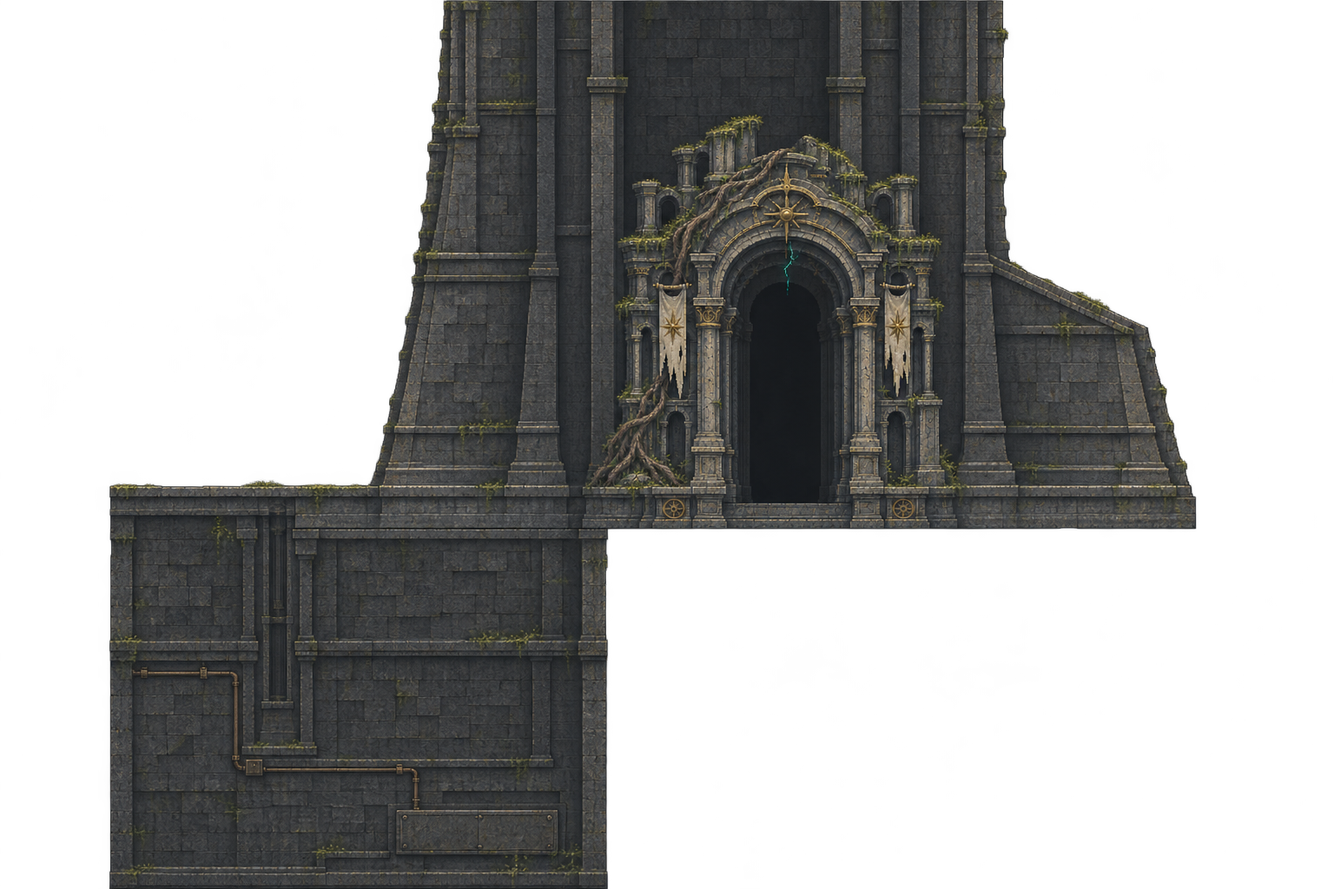
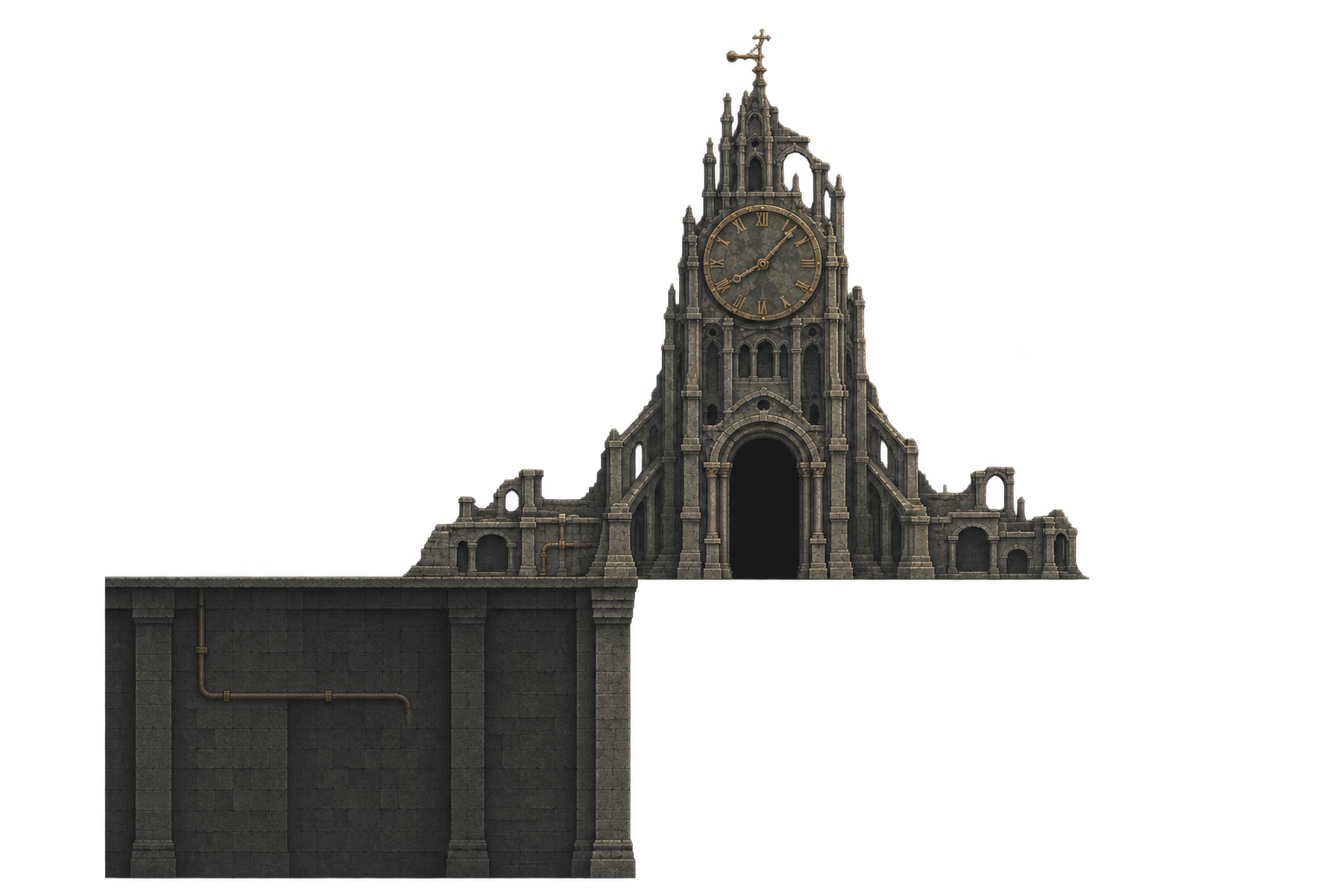
Recompose P33 as an open forecourt with a complete clocktower

diff --git a/docs/project/current_state.md b/docs/project/current_state.md
@@ -20,11 +20,11 @@
 | 地图 | 按实际相邻的房形并集和门洞绘制；删除矩形连线与独立地图坐标分支。正式模式按探索显示，逐房试玩可查看整区且不写探索进度 |
 | mapgen | SDK 0.4.1、模块库 1.1.0、runtime-map/v2 已接入开发入口；真实生成、M35／gears／完整起点风铃为有限切片，普通新游戏使用04首段六房，不调用mapgen |
 | 怪物与Boss | 冲刺怪和俯冲怪从当前身体位置按约半屏距离与视线索敌；八种平原普通怪使用现行动画图集，地面行枝铃哨与空中飞羽铃哨具有独立表现；牧风者510HP、三阶段、四足跳扑和后跳，巡游机分体转向/炮口与正式攻击对齐。素材、当前招式及声音以对象规范和Definition为准；源码合入不代表完整主线或真机验收 |
-| 表现 | 角色身体保持原调色，随身局部光跟随玩家照亮场景；充电站使用黄铜拱架与暖灰内腔、独立进出补帧与电流／恢复声音，保存成功后单次柔光提示，暂停和取消沿同一休息事务；35平原房使用统一逻辑画布与1wu/nearest采样、平台附着草边和分场所风点；开阔室外采用稳定日光，有限灯源对应实体灯具，保留随身光与局部遮挡。上口落台、下口空洞已随新几何校准；室内材质/景深和过渡组件保留，随其余房间的连续路线复验。窄处用连续环境体量填充，实际出口轴贴画面边缘；03苏醒拾枪与射铃，21车厢射击穿越，22满刺反冲坑，23交错平台复习，24紧凑3/4/5波守卫后射铃启动右侧升降台，左墙植物暗室有一次性20金币宝箱；01为连续主街，南侧只保留升降井和可下穿承接台。P26主厅整屏氛围已获改善反馈；P25已修木桥柱顶和入口收口，整屏美术沿03→21→22→23→24→01展开，静态平台源数据去重和裁边，普通悬台不逐块加柱，无碰撞建筑支撑退入背景；小站为疏落、略显破败的连续主街，镜头向上展示居民地标。正式NPC统一动物形象，室外采用独立双层流云与固定山体／塔景；小站—钟心往返—牧风者13房路线已进行连续构图、专用井壁／后殿／塔基、平台去重和Boss内场原生材质优化；P14按最新要求联合重整实际空间，其余房间保持已定轮廓；局部取景不能代替全区美术/UI验收 |
+| 表现 | 角色身体保持原调色，随身局部光跟随玩家照亮场景；充电站使用黄铜拱架与暖灰内腔、独立进出补帧与电流／恢复声音，保存成功后单次柔光提示，暂停和取消沿同一休息事务；35平原房使用统一逻辑画布与1wu/nearest采样、平台附着草边和分场所风点；开阔室外采用稳定日光，有限灯源对应实体灯具，保留随身光与局部遮挡。上口落台、下口空洞已随新几何校准；室内材质/景深和过渡组件保留，随其余房间的连续路线复验。窄处用连续环境体量填充，实际出口轴贴画面边缘；03苏醒拾枪与射铃，21车厢射击穿越，22满刺反冲坑，23交错平台复习，24紧凑3/4/5波守卫后射铃启动右侧升降台，左墙植物暗室有一次性20金币宝箱；01为连续主街，南侧只保留升降井和可下穿承接台。P26主厅整屏氛围已获改善反馈；P25已修木桥柱顶和入口收口，整屏美术沿03→21→22→23→24→01展开，静态平台源数据去重和裁边，普通悬台不逐块加柱，无碰撞建筑支撑退入背景；小站为疏落、略显破败的连续主街，镜头向上展示居民地标。正式NPC统一动物形象，室外采用独立双层流云与固定山体／塔景；小站—钟心往返—牧风者13房路线已进行连续构图、专用井壁／后殿／塔基、平台去重和Boss内场原生材质优化；房间边界与内部内容可按整体构图调整，并复验各房职责与连接；局部取景不能代替全区美术/UI验收 |
 | CI与交付 | 日常固定project／import／smoke／contracts四项，开发显式选手动专项；森林H控制器回归绑定独立测试夹具，旧随机地区路由拒绝执行；正式试玩部署独立执行，工作台运行包由专用发行工作流更新 |
 | 工程 | 正式代码位于 `game/`；`scripts/`、`scenes/`、`resources/` 中仍有当前 Definition、Boss场景与森林布局实现 |
 
-目标是固定世界类银河恶魔城。旧施工版的坐标通关和落脚合同未能证明初见可读性与失败恢复，用户试玩已推翻此前过宽的体验结论。正式镜头及查看输入已按最新确认规则接入，保留首段六房既有地形与物理；连续动作前视野、入口与失败恢复继续回归；内部构件根基、回访与整体视听仍需打磨，35房灰盒继续做连续路线和合屏打磨，其余外区273房尚未施工。公开主站提供35平原房及Z01正式入口，旧版存档分槽保留；当前PR150包含PR149修复及本批草稿施工，已发布试玩、尚未合入main，截至r80的35房施工、下＋跳输入、贯穿冰弹与巡游机领奖／免费安装链、Z01前置及门口失败恢复、P10靶怪与P12重做、接地／接触碰撞／视听修正，以及半屏弹程／轻微弹道辅助／两怪索敌与风铃、回复、金币反馈已发布；P26主厅获改善反馈，隐藏室背墙已修正；P25接缝、首段六房、小站主街、动物NPC、独立云层与支撑减法沿已认可方向保留，13房路线扩展被用户指出视觉质量退步，P01窗沿与轻薄接驳台按用户意见暂时保留，未采用凹形过渡间；P08候选保持，P06按迎风台地新绘低原野与疏云分层，远地随实际高度下降，保持平台和井口已施工结果；地面射击只保留水平反冲的修复保留。当前P06已将认可构图接入正式场景：普通平台沿用现行tile／木踏板，特殊风车入口整体定制剖面，配独立原野／流云、缓转风轮与2处岸沿垂苔；两处承托墙形已复验，全局删除边框随机前景及旧演示挂接，前景统一按房间构图明确放置。P06实机获视觉改善反馈，井口封路台已改为可穿越木踏板并验证连续上下行。当前P05采用整房传动厅、双窗真实光源和统一木踏板；领奖下穿后空中反冲过右侧通口，右侧开关永久开放回访移动台送回左侧检修岸。P05实机及双向回访获得用户认可。相邻P27现按旧风车检修院整体构图，连续木廊衔接东侧风车，低原野和独立流云留出上行空间；下口重绘两侧井沿与暗内壁，保持敞开。P27整房与井口改进已获用户认可。当前P14已按用户反馈联合重整布局与美术：精简战前踏板及西侧空跑、取消Boss下方横廊，三块等距战台配原地面长出／收回荆棘，残拱柱身连续落地；战后六钩点通向接地钟井岸台，中段短竖井回中庭。Boss参数／招式、H和三门连接保持，房间专用地形、占地与恢复点同步。正式连续通行、失手恢复、阶段荆棘和当前Boss生命周期已验证，录屏明确标注阶段／终结夹具；完整510HP胜利与实体手机未验。P15已改为开敞风鸣庭，首次修钟的摆钟、钟声暖波与草木复苏获用户认可；井口与背景采用低原野／流云、带旧传动凹室与复苏枯植的连续后庭墙、真实接地拱座，玩法与修钟表现保持。P32按废弃渠桥重整整房结构：桥头与残墩连成同族石体，荆棘归入下陷渠槽，厚东桥台内为藏室，下方敞开检修井用同一破损挡墙；原两段反冲、射铃载台、奖励和四门保持。整房图与短片共同审核，上一版草地／石体混杂及双砖拱贴片已撤换。P33现按开阔进场、塔前门廊和塔基回路统一构图，三个连接往返与下层反冲回升已验证；本房无战斗或奖励；主岸／回路和镜头保持，右上无用途内凹边界撤除，塔身侧翼完整接天空。每轮另给无标注整房原图的直接预览与独立下载链接。源码和媒体更新，未部署运行包。版本及检查边界统一见[平原交接](worklines/plains_bible_v2_01/scope.md)。
+目标是固定世界类银河恶魔城。旧施工版的坐标通关和落脚合同未能证明初见可读性与失败恢复，用户试玩已推翻此前过宽的体验结论。正式镜头及查看输入已按最新确认规则接入，保留首段六房既有地形与物理；连续动作前视野、入口与失败恢复继续回归；内部构件根基、回访与整体视听仍需打磨，35房灰盒继续做连续路线和合屏打磨，其余外区273房尚未施工。公开主站提供35平原房及Z01正式入口，旧版存档分槽保留；当前PR150包含PR149修复及本批草稿施工，已发布试玩、尚未合入main，截至r80的35房施工、下＋跳输入、贯穿冰弹与巡游机领奖／免费安装链、Z01前置及门口失败恢复、P10靶怪与P12重做、接地／接触碰撞／视听修正，以及半屏弹程／轻微弹道辅助／两怪索敌与风铃、回复、金币反馈已发布；P26主厅获改善反馈，隐藏室背墙已修正；P25接缝、首段六房、小站主街、动物NPC、独立云层与支撑减法沿已认可方向保留，13房路线扩展被用户指出视觉质量退步，P01窗沿与轻薄接驳台按用户意见暂时保留，未采用凹形过渡间；P08候选保持，P06按迎风台地新绘低原野与疏云分层，远地随实际高度下降，保持平台和井口已施工结果；地面射击只保留水平反冲的修复保留。当前P06已将认可构图接入正式场景：普通平台沿用现行tile／木踏板，特殊风车入口整体定制剖面，配独立原野／流云、缓转风轮与2处岸沿垂苔；两处承托墙形已复验，全局删除边框随机前景及旧演示挂接，前景统一按房间构图明确放置。P06实机获视觉改善反馈，井口封路台已改为可穿越木踏板并验证连续上下行。当前P05采用整房传动厅、双窗真实光源和统一木踏板；领奖下穿后空中反冲过右侧通口，右侧开关永久开放回访移动台送回左侧检修岸。P05实机及双向回访获得用户认可。相邻P27现按旧风车检修院整体构图，连续木廊衔接东侧风车，低原野和独立流云留出上行空间；下口重绘两侧井沿与暗内壁，保持敞开。P27整房与井口改进已获用户认可。当前P14已按用户反馈联合重整布局与美术：精简战前踏板及西侧空跑、取消Boss下方横廊，三块等距战台配原地面长出／收回荆棘，残拱柱身连续落地；战后六钩点通向接地钟井岸台，中段短竖井回中庭。Boss参数／招式、H和三门连接保持，房间专用地形、占地与恢复点同步。正式连续通行、失手恢复、阶段荆棘和当前Boss生命周期已验证，录屏明确标注阶段／终结夹具；完整510HP胜利与实体手机未验。P15已改为开敞风鸣庭，首次修钟的摆钟、钟声暖波与草木复苏获用户认可；井口与背景采用低原野／流云、带旧传动凹室与复苏枯植的连续后庭墙、真实接地拱座，玩法与修钟表现保持。P32按废弃渠桥重整整房结构：桥头与残墩连成同族石体，荆棘归入下陷渠槽，厚东桥台内为藏室，下方敞开检修井用同一破损挡墙；原两段反冲、射铃载台、奖励和四门保持。整房图与短片共同审核，上一版草地／石体混杂及双砖拱贴片已撤换。P33旧塔墙与局部修边构图被用户否定，现重画完整破损钟塔、低矮侧翼和独立凹入塔基；上部轮廓连续开敞，前庭镜头按外框内缘取景，主岸下缘漏空补实。三门与回升职责保留，当前候选待反馈。每轮另给无标注整房原图的直接预览与独立下载链接。源码和媒体更新，未部署运行包。版本及检查边界统一见[平原交接](worklines/plains_bible_v2_01/scope.md)。
 
 ## 当前缺口
 

diff --git a/docs/project/worklines/plains_bible_v2_01/scope.md b/docs/project/worklines/plains_bible_v2_01/scope.md
@@ -4,7 +4,7 @@
 
 当前分支为[PR150](https://github.com/zhipijun1996/gunman-rush/pull/150)、`feat/approved-platform-rooms`，尚未合入main。正式内容为35个平原房与用户授权的Z01钟心门厅；35房／43连接身份不变。平台初审导入源截至r80，平台基线`8a12f2ab1698c4d38251c1fe04fe381a7e6e0b18`；随后只落实用户明确指定的正式游戏修改。平台保持只读，不部署、不迁移、不代签审批。草稿初审不等于正式体验终审。
 
-本轮基线`6d6f3e2d9ec21f204fb69abf564cc179cfc24810`。用户否定P33右上黑色内凹构图，明确关卡边界和内部内容可以调整。本轮仅返修P33：删除无用途的右上内凹房界，让完整塔身侧翼接天空；沿现有整房构图复核显示、实际边界、相邻占地和通行。保留三门和房间职责，不将旧几何冻结为条件。每轮同时交付无标注整房预览与独立原图、职责图和短片；平台只读，不部署运行包。
+本轮基线`94a0d6efa933c598aa02eb6b831b98a93f55f7dd`。用户否定P33局部修补：左侧锯齿轮廓和塔体比例仍违和。本轮按整房重新构图，开放上部天空、重画完整钟塔／低侧翼并压低下层视觉权重；边界与内容共同调整，不仅修用户点名的角落。仅P33施工，相邻房验连接。交付独立整房图、职责图、正常速度短片；不部署平台或主游戏。
 
 ## P06构图落地约束
 
@@ -21,7 +21,7 @@
 以上已接入P06场景，正式角色、平台与碰撞共同合屏。建筑背墙只显示在实际净空，前表面按真实墙形、边界和门台裁定，避免画出的轮廓侵入通路。角色物理、镜头缩放和原平台位置未改。实际镜头比较与短片见检查证据；概念方向获认可不等于实机终审。
 ## 当前实现
 
-整屏构图以房间地点与动作带为依据，P25、P26保留已认可的主体设计，P01右上仅保留原墙缺口的上下窗沿，P06使用整房规划的原野／疏云、定制风车剖面与附着垂苔，P08井内保持下述候选；长桥与原野保持通风净空，P33以整幅注册建筑统一塔门、扶壁和下层检修回路，Z01新绘后殿与真实左上窗，P08使用连续砌体与固定世界坐标的曲面受光，三段绞盘绳索随真实吊台伸缩，窄窗与落岸灯提供实际光源。P27形成背风休整，P14内场沿实际平台使用原生平原地形，关闭旧亮绿地面绘制。室外背景继续使用独立云层、固定地表和分场所风点。无碰撞支撑退后；多余长柱删除，不逐台加装饰。
+整屏构图以房间地点与动作带为依据，P25、P26保留已认可的主体设计，P01右上仅保留原墙缺口的上下窗沿，P06使用整房规划的原野／疏云、定制风车剖面与附着垂苔，P08井内保持下述候选；长桥与原野保持通风净空，P33以完整钟塔／低侧翼和独立凹入背墙组织塔前庭与检修回路，Z01新绘后殿与真实左上窗，P08使用连续砌体与固定世界坐标的曲面受光，三段绞盘绳索随真实吊台伸缩，窄窗与落岸灯提供实际光源。P27形成背风休整，P14内场沿实际平台使用原生平原地形，关闭旧亮绿地面绘制。室外背景继续使用独立云层、固定地表和分场所风点。无碰撞支撑退后；多余长柱删除，不逐台加装饰。
 
 路线房按逐房反馈更新，小站作为已认可的起点与返回基准。静态地形的重复体积和入墙部分在源场景裁清；平台ID、单向属性与材质映射随分片保持。其余路线房的美术整理保持原碰撞并集；P14、P15按下文职责及用户明确要求重整局部占地。世界连接身份与敌人／机关职责保留。
 
@@ -56,7 +56,7 @@
 - P30：回身射铃启泵斗、横移转上升，保留H绕墙TG03与返程折梯，不新增散币。
 - P31：断渠、双吊台上行与下层巡逻回路，底部96宽刺沟后的20币藏箱；精密换乘区保留净空。
 - P32：废弃渠桥的西桥头、残墩、东桥台使用连续旧石材，荆棘位于两个下陷渠槽，天然草岸留在设施外。中段残墩承担反冲落脚与对空遭遇；东桥台的厚墙／底座包住低矮藏室，下方敞开检修井与藏室共用一幅破损后侧挡墙，不重复封闭砖拱。桥头无用途凹槽及重复阶板撤除，实体与轮廓联动。原两段反冲、射铃检修台、10金币箱、上层H回访与四门保留；上口木接收台接P15同族井壁，远处钟心与低河谷／独立云层保留。
-- P33：开阔西庭由低原野与独立流云留出缓冲；可下穿检修桥接入塔前石台，塔门与扶壁一体构图，正式镜头读全拱口。下层以同一塔基背墙与接地暖灯说明回环，普通跳中台、下射反冲返回主路。右上无用途内凹撤除，三门、主岸／回路、角色物理与镜头保留。Z01门厅调查结束后解除小站北路限制。
+- P33：连续天空下的草岸引向完整破损钟塔，钟盘、门洞与低矮侧翼按整体比例重画，保留真实石台和独立流云。室外不保留锯齿悬顶，前庭镜头按外框内缘展示。主岸下缘补实旧漏空；下层安静背墙与暖灯衬托检修回路，普通跳中台、下射反冲回主路。三门和Z01调查职责保留。
 - P34：西檐15金币藏箱、宽地冲锋遭遇、带侧刺的纪念台与整体建筑逐级登高；下井口从右侧经宽穿透台回广场。
 - P35：交通笼与中层遭遇，西向回程补足肩台；实际新增占地同步施工源，两处上口保留可穿越接收台。
 
@@ -67,12 +67,13 @@
 
 ## 检查与证据
 
-P33的旧右上内凹由房界外填充生成巨大黑块，上一轮将旧几何冻结，只审建筑本身，遗漏了真实边界对整体构图的截断；此前视觉通过判断被用户反馈否定。现行Visual Bible明确边界和内部内容均可按构图与玩家体验调整，技能入口引用同一规则。当前上方净空延伸至东界x2048，撤除无用途的顶部内凹；塔身斜侧翼完整接天空，真实碰撞边界与地图同时更新。场景平台、三门、镜头、主支路、奖励／剧情和角色物理不变；未增加或遮盖贴图。
+P33当前候选已接入正式场景，编译内容 `afbd8249ad68`。此前两次局部修复未满足整体审美；本轮改成完整钟塔、低侧翼与开敞进场，整房和正式机位分别审看，不以通行检查替代视觉结论。正常门前镜头可见钟盘与门洞；完整塔冠见整房检查总览，未改变正式缩放。下层仍保留原生石砌地形与检修回路。
 
-- 整区编译通过，未与相邻房占地重叠。逐字段比较确认仅P33空间矩形和构图说明变化，三门／落点／镜头等合同及场景源保持；平台接缝与四项CI通过。
-- 正式基础阶段从西口连续走到塔门，再向右走到侧翼前并返回，进入Z01触发既有调查、通过正常跳过入口提交收据，返回P33。下＋跳落中台、到下层岸、普通跳返中台和下射反冲回主路，再经P32往返，断言通过；无途中位置重置或直接写入玩法状态。另从P35真实成对落台起跳进P33，再下行返回，断言通过。
-- 当前正常机位和2048×1024整房检查图确认右上黑块已消失，侧翼与天空连续；整房图不代表正式镜头缩放。录像为1107帧／30fps正常速度原声，完整母片和两段MP4解码通过。文档检查通过；视觉为当前候选，待反馈。未验证实体手机性能、35房新档或新Web导出。
+- `tools/ci.py`：四项通过；平台美术接缝专项0失败；两幅新素材机械烘焙与来源哈希一致；文档检查通过。
+- 正式控制器连续录制：P32进入→门前及东侧→进入Z01→正常跳过调查并取得收据→返回P33→下＋跳穿台→下层承接岸→普通跳中台／下射反冲回主岸→西门往返，断言通过。另验P35普通跳进入P33安全岸并返回。
+- 世界空间编译通过；三门身份、位置、接收点与职责保留。上部腔体开放，前庭展示边界取外墙内缘；唯一内部实体修改是补齐主岸下缘32wu漏空，原有落脚顶面与穿透台保持。
+- 未验证：新档35房全流程、实体手机性能、新Web导出。本轮未部署主游戏或关卡平台；视觉为当前候选，待用户反馈。
 
-[独立整房原图](https://raw.githubusercontent.com/zhipijun1996/gunman-rush/9b1f597e44cd3993e4e770a849c7b451e6869717/review/forecourt/whole-room.jpg) · [路线与职责](https://raw.githubusercontent.com/zhipijun1996/gunman-rush/9b1f597e44cd3993e4e770a849c7b451e6869717/review/forecourt/space-map.png) · [右侧同机位前后对照](https://raw.githubusercontent.com/zhipijun1996/gunman-rush/9b1f597e44cd3993e4e770a849c7b451e6869717/review/forecourt/east-comparison.jpg) · [门前同机位对照](https://raw.githubusercontent.com/zhipijun1996/gunman-rush/9b1f597e44cd3993e4e770a849c7b451e6869717/review/forecourt/portal-comparison.jpg)。正常速度短片：[塔门与侧翼9.5秒／0.75MiB](https://raw.githubusercontent.com/zhipijun1996/gunman-rush/9b1f597e44cd3993e4e770a849c7b451e6869717/review/forecourt/tower-side.mp4)、[下穿与回升8.6秒／0.89MiB](https://raw.githubusercontent.com/zhipijun1996/gunman-rush/9b1f597e44cd3993e4e770a849c7b451e6869717/review/forecourt/foundation-return.mp4)。[来源、脚本、检查与哈希](https://raw.githubusercontent.com/zhipijun1996/gunman-rush/9b1f597e44cd3993e4e770a849c7b451e6869717/review/forecourt/provenance.json)对应编译`3f3b132616ca`。
+当前媒体为[固定版本目录](https://github.com/zhipijun1996/gunman-rush/tree/39dc7ae7ad1107165e86719be5a8585de78ff5de/review/forecourt)。[无标注整房原图](https://raw.githubusercontent.com/zhipijun1996/gunman-rush/39dc7ae7ad1107165e86719be5a8585de78ff5de/review/forecourt/whole-room.jpg)为实际Godot场景1984×992检查视口，覆盖外框内缘，不是正式镜头；另有[整房前后对照](https://raw.githubusercontent.com/zhipijun1996/gunman-rush/39dc7ae7ad1107165e86719be5a8585de78ff5de/review/forecourt/whole-comparison.jpg)和[路线／职责图](https://raw.githubusercontent.com/zhipijun1996/gunman-rush/39dc7ae7ad1107165e86719be5a8585de78ff5de/review/forecourt/space-map.png)。目录内approach／portal对照使用相同人物位置；镜头内缘配置的差异已标明。
 
-公开运行包仍为f8188783660b；仅更新PR150源码与小媒体，不部署平台或运行包。下一步依据本房整图与短片反馈闭环后再扩展。
+[进场与钟塔短片](https://raw.githubusercontent.com/zhipijun1996/gunman-rush/39dc7ae7ad1107165e86719be5a8585de78ff5de/review/forecourt/courtyard-traverse.mp4)11.5秒、约680KiB；[下层与回升短片](https://raw.githubusercontent.com/zhipijun1996/gunman-rush/39dc7ae7ad1107165e86719be5a8585de78ff5de/review/forecourt/foundation-return.mp4)8.6秒、约795KiB。均为真实音画、30fps正常速度；完整连续录制1107帧／36.9秒。生产脚本、日志、几何差异与文件哈希见同目录provenance.json；短片和母片已完整解码检查。

diff --git a/docs/bible/visual_bible.md b/docs/bible/visual_bible.md
@@ -44,7 +44,7 @@
 
 人物补帧以正式入口当前实际绘制的身体为母版，不能用同角色的旧立绘代替。登记母版资源、实际切片和显示变换；在同一世界尺度、脚底与镜头下并排比较待机、动作进入、关键姿势和退出。除总高度，还核对兜帽体积与宽度、头身比、胸腹宽度、四肢长度、鞋底宽度及像素密度。屈膝、趴地和低头自然降低高度，不能逐姿势拉到同高；头身比例错误须返工原画，不能整体缩放掩盖。正常速度反复切换，出现变瘦、变大、脚底漂移或画法跳变时不得以碰撞、资源或动画状态测试通过替代视觉通过。
 
-先核整房墙体、平台、危险与自然岸地是否属于同一可信场所：承重、围合、分路、落点、失败恢复各有明确用途；关卡边界和内部内容均可按整体构图与玩家体验调整，不把保留动作与房间职责理解成冻结旧轮廓、每块地形或摆放。整房构图须包含实际房界填充、镜头内可见的墙顶和负空间；无用途的黑色凸块应修正空间本身，不能靠贴图掩盖。材质分界服从建筑与自然岸地的真实界面，不沿对象编号换材质；必要的局部几何调整与动作一起复验。
+先核整房墙体、平台、危险与自然岸地是否属于同一可信场所：承重、围合、分路、落点、失败恢复各有明确用途；关卡边界和内部内容均可按整体构图与玩家体验调整，不把保留动作与房间职责理解成冻结旧轮廓、每块地形或摆放。整房构图须同时核对完整主体轮廓、主体／入口／附属体比例、实际房界填充、墙顶和负空间；修正一个局部后重新审看整房及沿途机位，不能以点名缺陷消失代替整体成立。室外边界不得读成无出处的悬空洞顶，无用途的黑色凸块应修正空间本身，不能靠贴图掩盖。材质分界服从建筑与自然岸地的真实界面，不沿对象编号换材质；必要的局部几何调整与动作一起复验。
 
 认可构图转入实现时，同时绑定整体构图、正式角色／tile材质参照与固定镜头取景，明确哪些是必须保留的空间关系、哪些只是概念示意。前景宿主、遮挡范围、光源位置与方向、受光／遮阴范围、风和视差归属在拆素材前规划；不能将其留作收尾装饰。先以正式tile与角色完成全房体量和景深，再细化新构件与局部前景、光照、运动；每阶段用相同角色位置、镜头范围和场景状态对照轮廓、地平线、留白、明暗主次及动作可读性。新增细节破坏整体时删减或重作，不能用调暗、透明或额外装饰掩盖。静态对照通过后，用正式入口连续走到主路、分支和出口，再返回；沿途检查行走、跳跃、反冲的遮挡、接地和灯光连续性。局部起点录像仅证明该片段，不能跳过入口连接、上下落差或必经平台后声称通路完整。检查与测试不能代替视觉判断。
 

diff --git a/assets/plains_v07/SOURCES.md b/assets/plains_v07/SOURCES.md
@@ -21,7 +21,7 @@
 | animal-residents-generated.png / aqi-animal-story-generated.png | 獾回收匠、长耳兔织时匠、狐狸旅人、野猪武器匠、猫头鹰守钟匠；每个状态四帧待机和两帧招呼，统一脚底、每状态固定比例；[最终来源与烘焙](source/inhabitants-sky-provenance.json)。人类NPC母版与旧生产路径已移除。 |
 | opening_plains-layer-generated.png / orchard-layer-generated.png / plains-layer-generated.png / wind_clouds-layer-generated.png | 固定地表具有透明天空，独立双层流云在地表后方移动；源图、裁切与输出哈希同上，不扭动山体或塔。 |
 | clockheart_hall-generated.png | Z01低对比后殿与真实左上窗；[源图、裁切与哈希](source/clockheart-route-provenance.json)。`python3 tools/art/bake_clockheart_route.py --verify`比对原生输出。 |
-| forecourt-architecture-generated.png | P33塔门、扶壁与下层塔基整房注册绘制；正常镜头可读拱口，下层接真实检修台，无额外碰撞。保留开放进场、独立云层与三盏接地实体灯；[构图、提示词、导出与哈希](source/forecourt-provenance.json)。 |
+| forecourt-architecture-generated.png / forecourt-foundation-generated.png | P33完整破损钟塔、低矮侧翼与独立凹入塔基背墙；整体轮廓、钟盘／门洞比例和实际地台合屏设计。立面统一等比烘焙，背墙退后，无额外碰撞；[构图、提示词、裁切与哈希](source/forecourt-provenance.json)。 |
 | windcourt-arena-generated.png / windcourt-gallery-generated.png | P14开敞残拱战场与连续后层古廊，原野和独立云层透过建筑空隙；[导图、提示词、注册位置和烘焙哈希](source/windcourt-composition-provenance.json)。残拱柱身按当前战场重绘至地面；实际平台、钩索和回程空间归P14场景与construction，生成导图只记录素材注册依据。木踏板复用现行同族表现。 |
 | bellgarden-ruin-generated.png / bellgarden-revival-generated.png | P15塌顶风鸣庭：同一构图的破败钟架、后壁与定点复苏枝叶，裁切和锚点成对注册；铜钟以原画局部挂点刚性摆动，独立云层保留。来源、提示词、裁切和哈希见[记录](source/bellgarden-provenance.json)。低沉修钟声为`tools/generate_windchime_audio.py --clock`原创模态合成，配合现有钟鸣，由GameAudio同一声部池播放。 |
 | story-traces-generated.png | 布条桩、路线便笺板、修好的灯凳，显现只读取交谈收据与宿主房号 |

diff --git a/docs/project/tasks.md b/docs/project/tasks.md
@@ -8,7 +8,7 @@
 
 | 任务 | 目标 | 依赖 | 状态 | 入口 |
 | --- | --- | --- | --- | --- |
-| PLAINS-BIBLE-V2-01 | P33构图返修：撤除无用途右上内凹房界，复验接缝与实机 | — | review | [交接](worklines/plains_bible_v2_01/scope.md) |
+| PLAINS-BIBLE-V2-01 | P33整房重构图：开敞草岸、完整钟塔与塔基层级 | — | review | [交接](worklines/plains_bible_v2_01/scope.md) |
 | MOBILE-LEVEL-WORKBENCH-01 | Site V18 / r68：双点出口跳房、37房隔离预览与钟心室内分层；整区审核含森林24房规划 | — | review | [交接](worklines/mobile_level_workbench_01/scope.md) |
 
 
